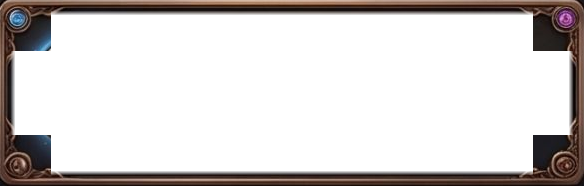
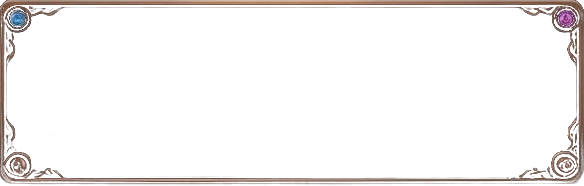
[Claude] fix: 清除已達成卡邊框四角的藍色殘影，只保留青銅雕飾與寶石

Changed region(s): [[0.0, 0.0, 1.0, 1.0]]

diff --git a/css/achievements.css b/css/achievements.css
@@ -83,7 +83,7 @@
 #achv-modal .achv-card { position: relative; min-height: 112px; gap: 14px; padding: 12px 16px; border-radius: 6px; }
 #achv-modal .achv-card.done {
   border: 8px solid transparent; padding: 4px 10px; box-shadow: none;
-  border-image: url(../images/ui/achievements/done-frame.png) 48 / 24px stretch;
+  border-image: url(../images/ui/achievements/done-frame.png?v=2) 48 / 24px stretch;
   background: linear-gradient(#3a2a1e, #241911) padding-box; margin: 0;
 }
 #achv-modal .achv-card.todo {

diff --git a/index.html b/index.html
@@ -16,7 +16,7 @@
   <link rel="stylesheet" href="css/runeword.css?v=1.0.8">
   <link rel="stylesheet" href="css/gems.css?v=1.0.25">
   <link rel="stylesheet" href="css/dialogs.css?v=1.0.4">
-  <link rel="stylesheet" href="css/achievements.css?v=1.0.6">
+  <link rel="stylesheet" href="css/achievements.css?v=1.0.7">
   <link rel="stylesheet" href="css/world-map.css?v=1.0.12">
   <link rel="stylesheet" href="css/divine-forge.css?v=1.0.13">
   <link rel="stylesheet" href="css/equipment-chaos.css?v=1.0.5">
